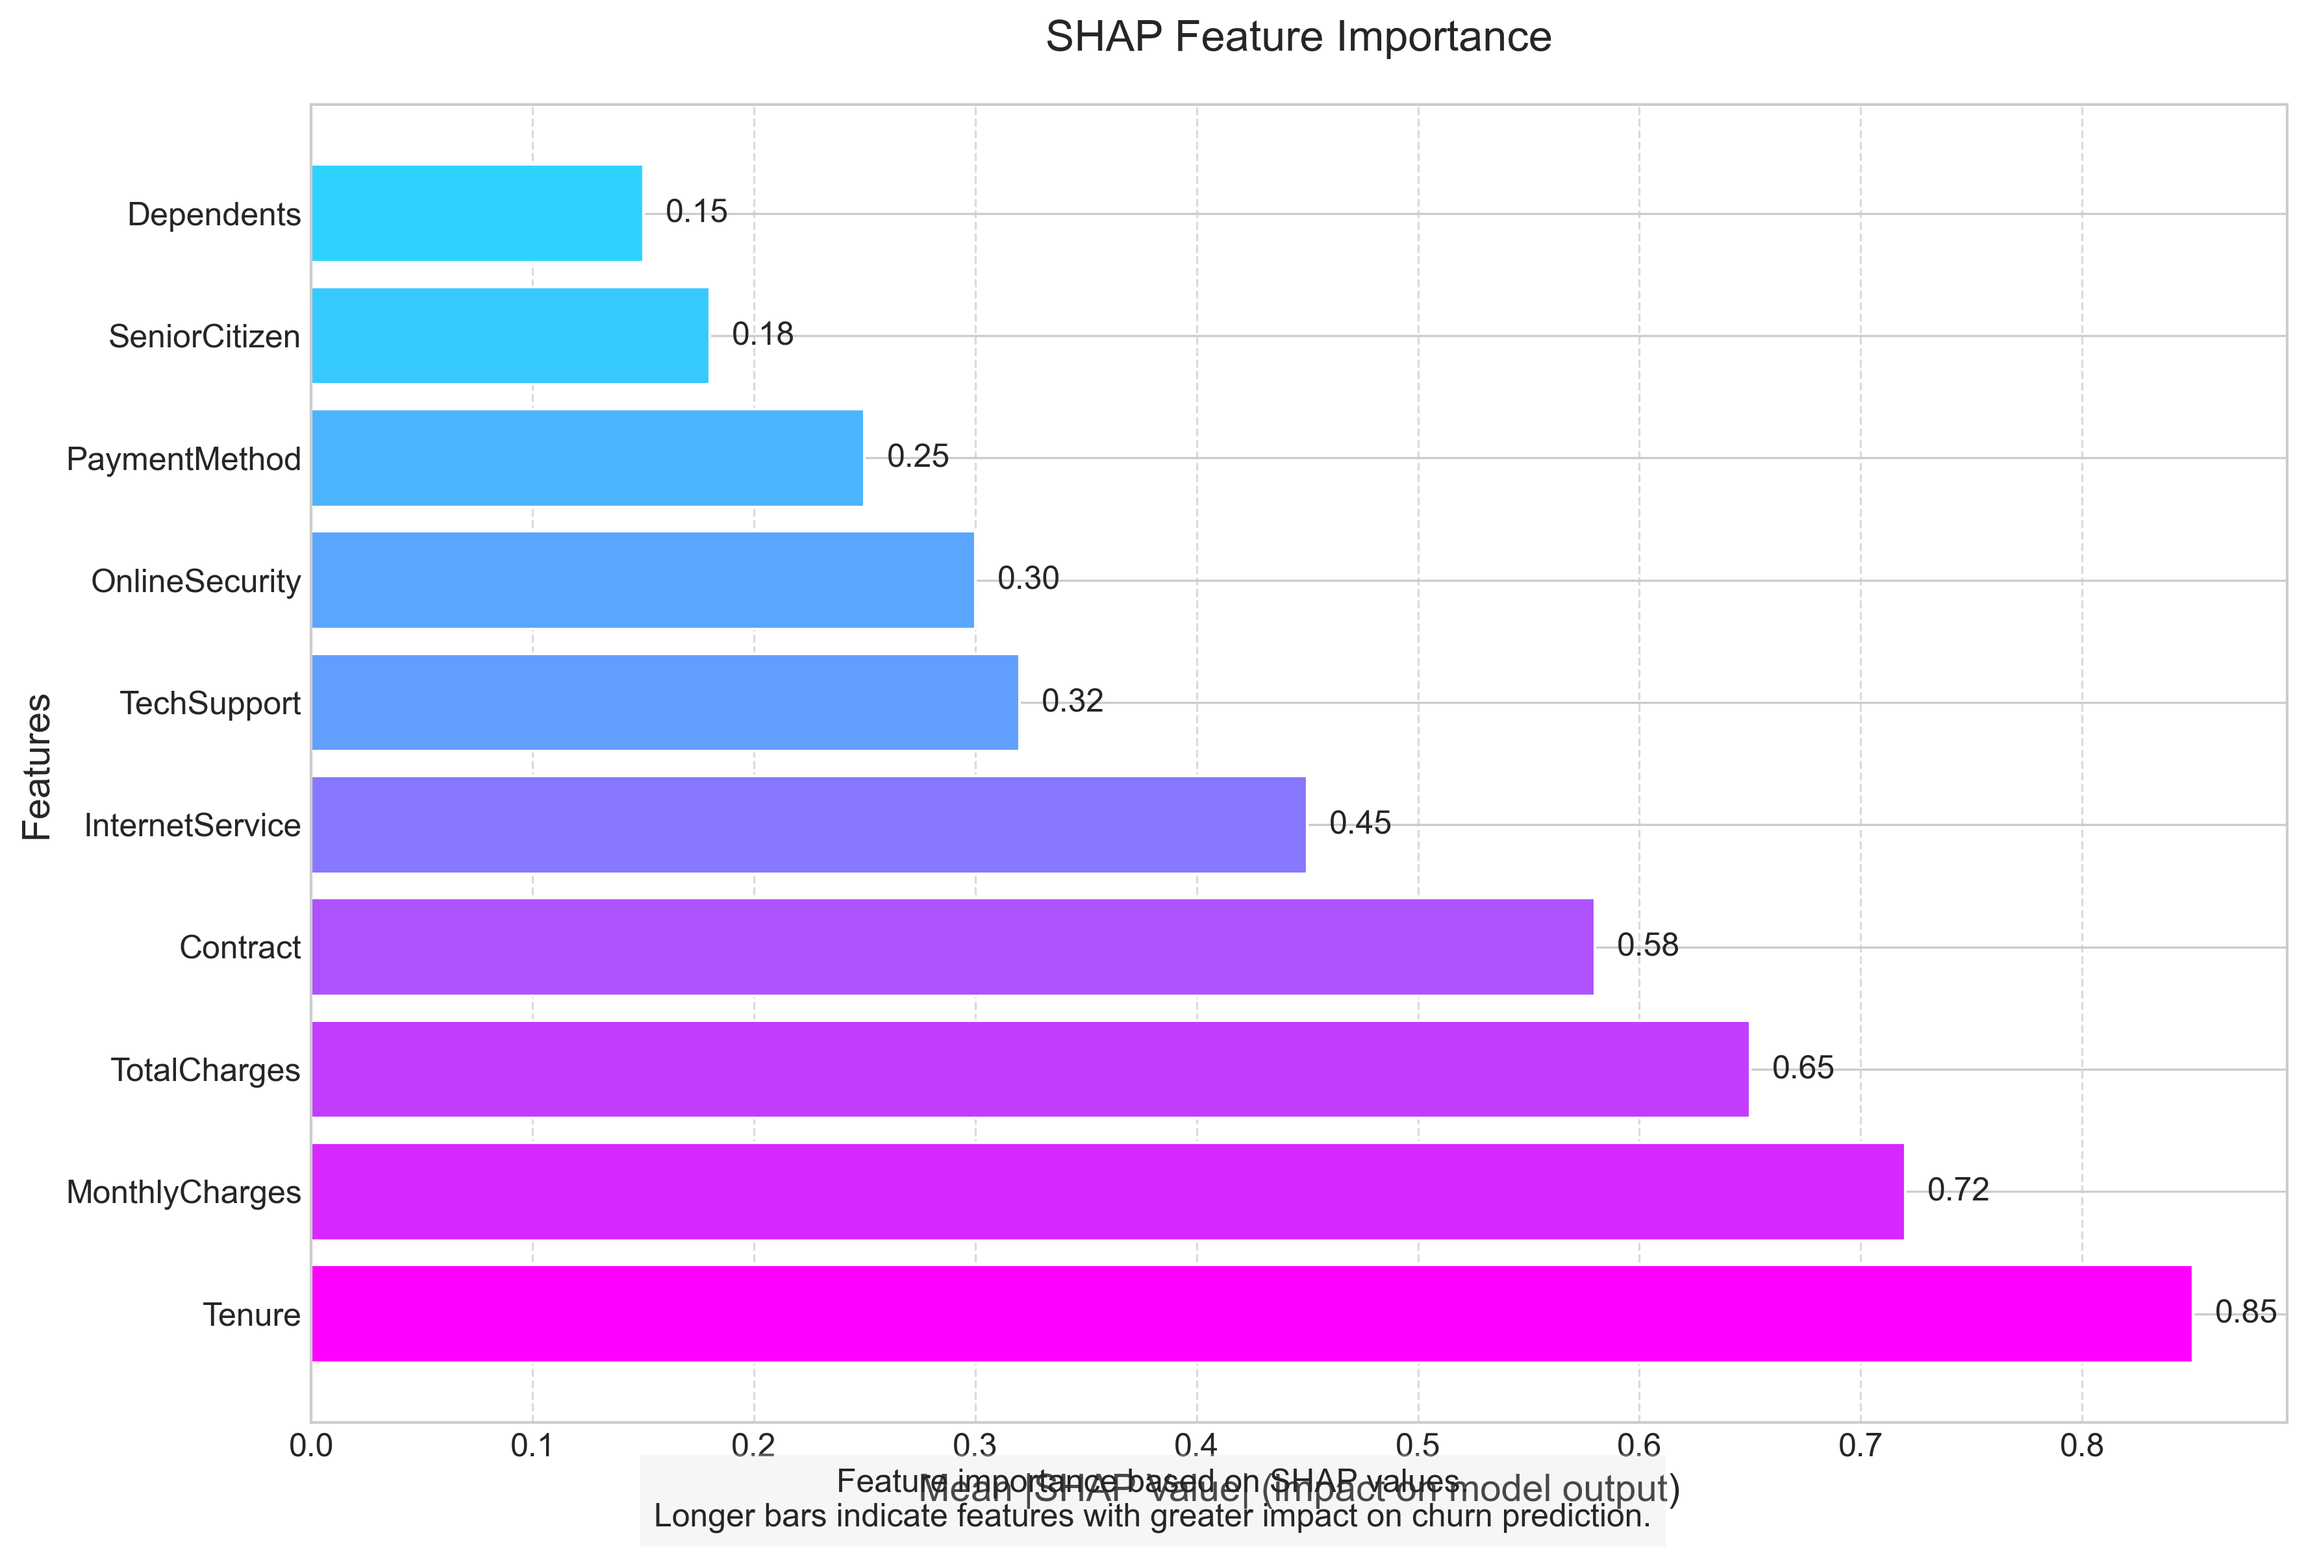
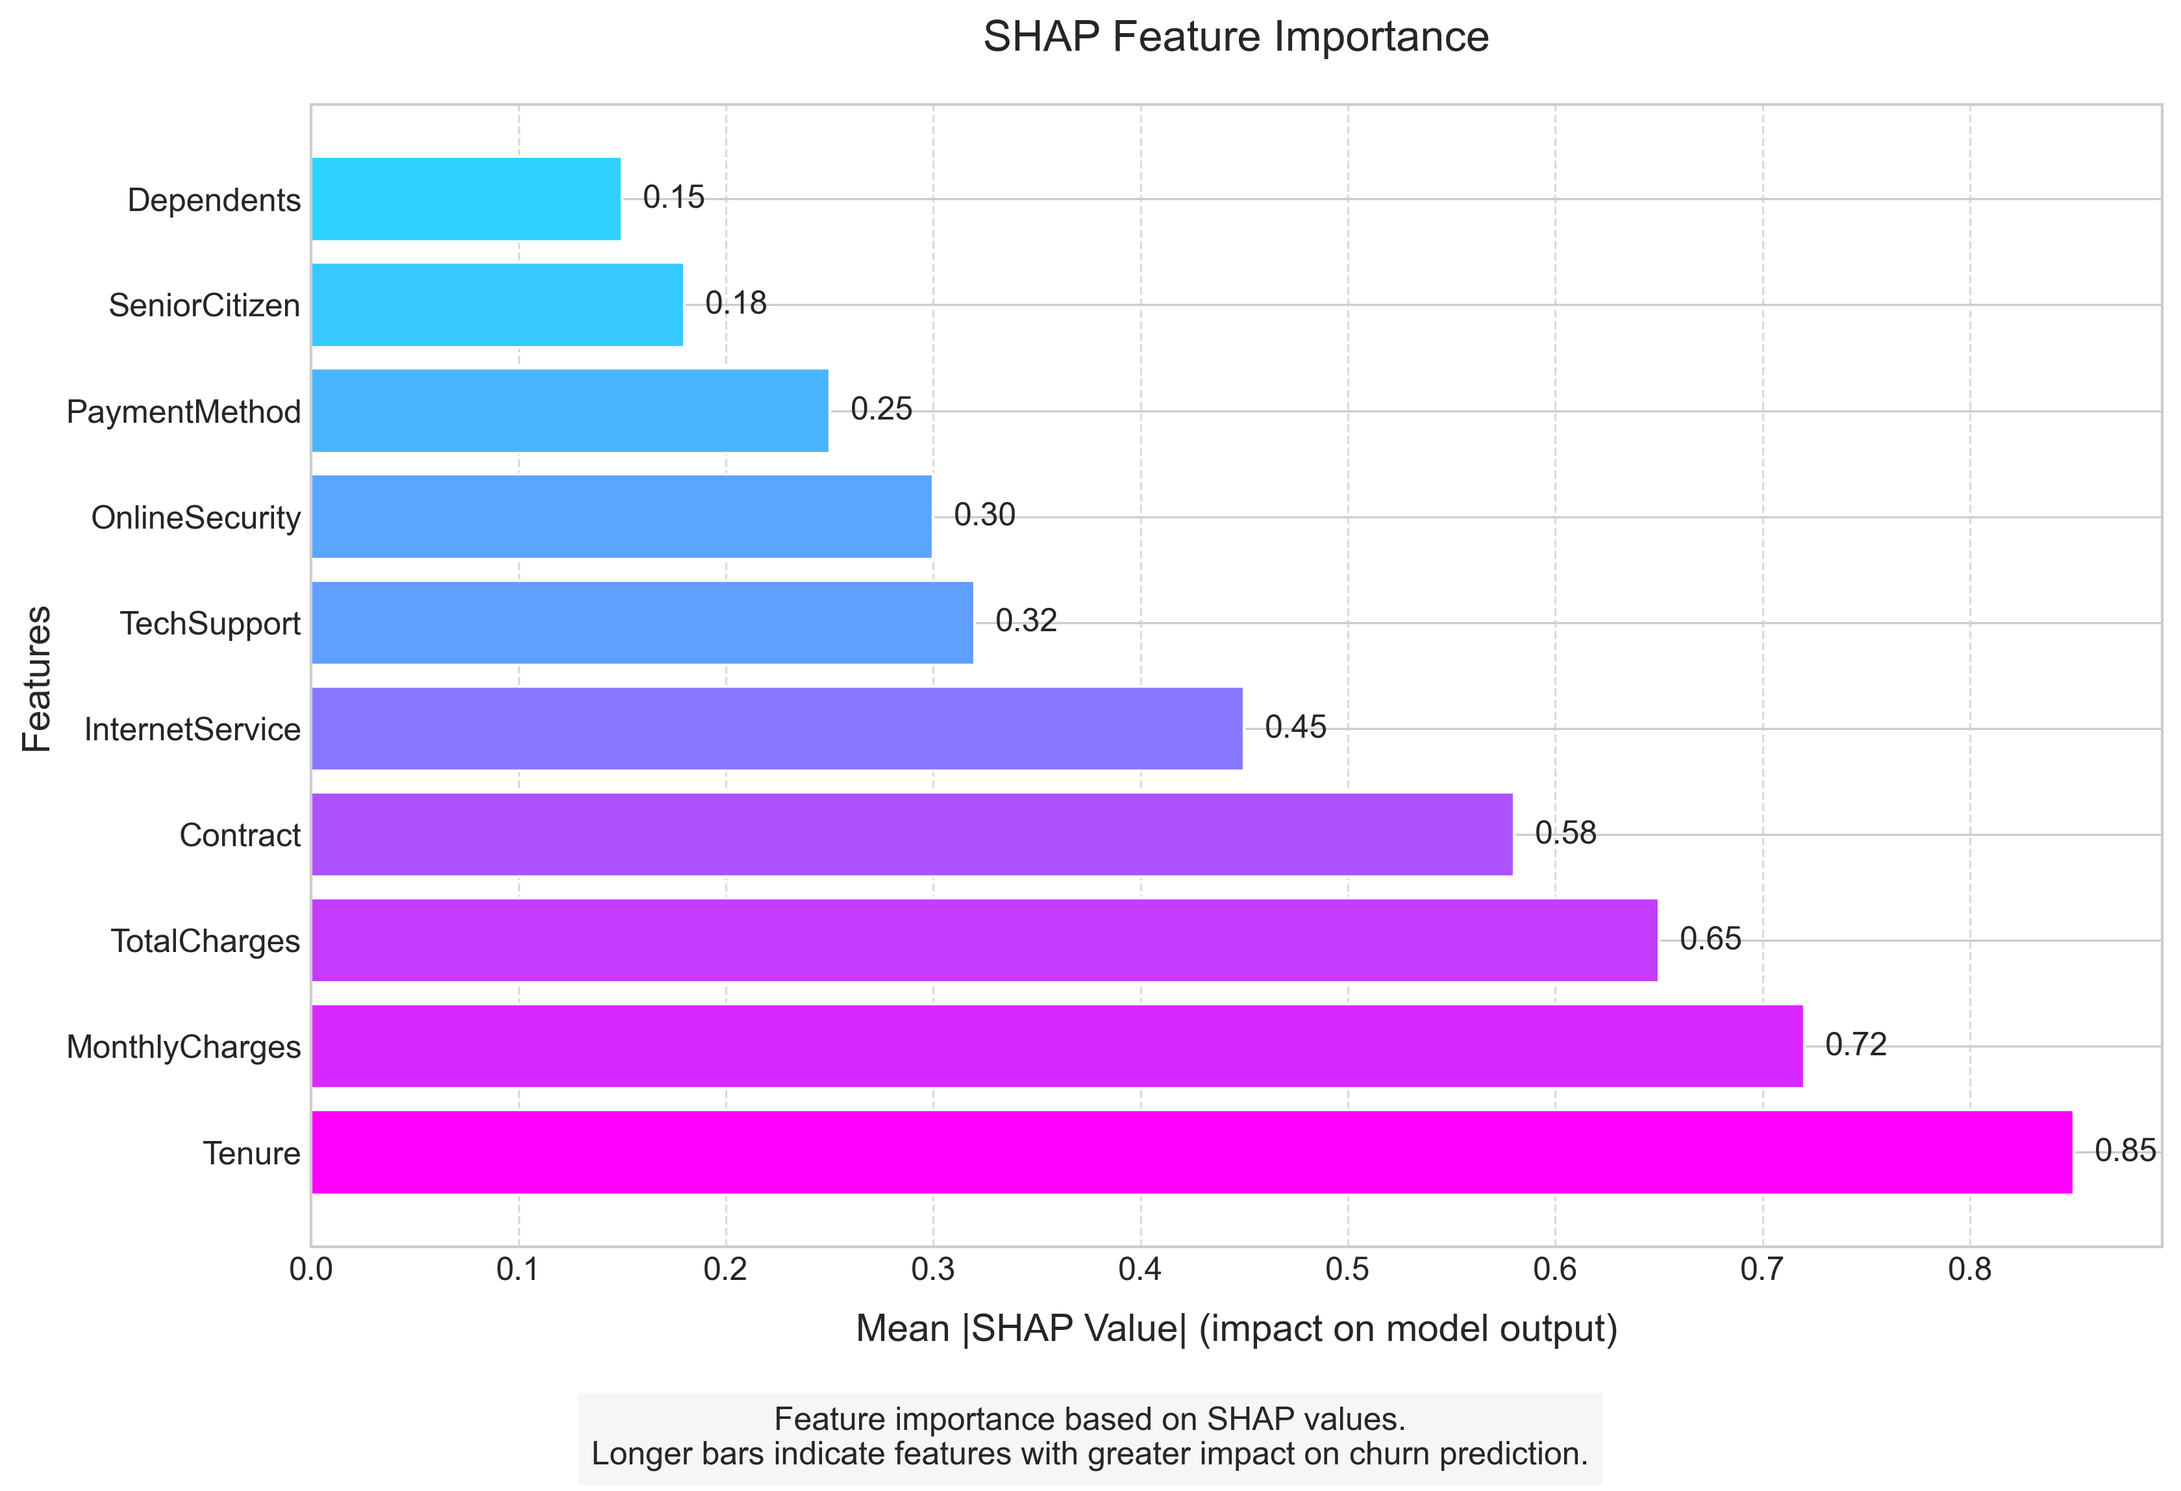
fixing the overlapping of the plot on churn

diff --git a/generate_churn_plots.py b/generate_churn_plots.py
@@ -217,19 +217,19 @@ def plot_service_usage():
     service_cols = ['PhoneService', 'MultipleLines', 'InternetService', 'OnlineSecurity', 
                    'OnlineBackup', 'DeviceProtection', 'TechSupport', 'StreamingTV', 'StreamingMovies']
     
-    # Create figure with enough height for all service options
-    plt.figure(figsize=(14, 14))
+    # Create figure with enough height for all service options and more width for labels
+    plt.figure(figsize=(16, 14))  # Increased width from 14 to 16
     
     # Define service categories and colors
     service_categories = {
         'Basic': ['PhoneService', 'MultipleLines', 'InternetService'],
-        'Security': ['OnlineSecurity', 'OnlineBackup', 'DeviceProtection', 'TechSupport'],
+        'Protection & Support': ['OnlineSecurity', 'OnlineBackup', 'DeviceProtection', 'TechSupport'],
         'Entertainment': ['StreamingTV', 'StreamingMovies']
     }
     
     category_colors = {
         'Basic': '#3498db',  # Blue
-        'Security': '#2ecc71',  # Green
+        'Protection & Support': '#2ecc71',  # Green
         'Entertainment': '#e74c3c'  # Red
     }
     
@@ -238,18 +238,21 @@ def plot_service_usage():
     y_ticks = []
     y_labels = []
     category_separators = []
+    category_avg_churn = {}
     
     # Process each service column
     for category, cols in service_categories.items():
         category_start = y_pos
+        category_churn_rates = []
         
         for col in cols:
             # Get churn rate for each value in this column
             for val in df[col].unique():
-                if pd.notna(val):  # Skip NaN values
+                if pd.notna(val) and val == 'Yes':  # Focus on customers who have the service
                     # Calculate churn rate for this specific value
                     subset = df[df[col] == val]
                     churn_rate = subset[subset['Churn'] == 'Yes'].shape[0] / subset.shape[0] * 100
+                    category_churn_rates.append(churn_rate)
                     
                     # Plot the bar
                     bar = plt.barh(y_pos, churn_rate, color=category_colors[category], alpha=0.7)
@@ -263,17 +266,31 @@ def plot_service_usage():
                     y_labels.append(f"{val} ({col})")
                     
                     y_pos += 1
+        
+        # Calculate average churn rate for category
+        if category_churn_rates:
+            category_avg_churn[category] = sum(category_churn_rates) / len(category_churn_rates)
                     
         # Add category separator
         if y_pos > category_start:
             category_separators.append((category_start + y_pos) / 2)
             y_pos += 1.5  # Add space between categories
     
+    # Set the x-axis limit to provide more space for annotations
+    plt.xlim(0, max(df.groupby(service_cols)['Churn'].apply(lambda x: (x == 'Yes').mean() * 100).max() + 15, 50))
+    
     # Draw category separators and labels
     for i, pos in enumerate(category_separators):
         category = list(service_categories.keys())[i]
         plt.axhline(pos - 0.75, color='gray', linestyle='--', alpha=0.3, xmax=0.95)
-        plt.text(plt.xlim()[1] * 0.96, pos, category, 
+        
+        # Add category label with average churn rate
+        if category in category_avg_churn:
+            label_text = f"{category} (avg: {category_avg_churn[category]:.1f}%)"
+        else:
+            label_text = category
+            
+        plt.text(plt.xlim()[1] * 0.96, pos, label_text, 
                  ha='right', va='center', fontsize=14, fontweight='bold', 
                  bbox=dict(facecolor='white', alpha=0.8, boxstyle='round,pad=0.5'))
         
@@ -281,7 +298,7 @@ def plot_service_usage():
     plt.yticks(y_ticks, y_labels)
     
     # Add labels and title
-    plt.xlabel('Churn Rate (%)', fontsize=14)
+    plt.xlabel('Churn Rate (%)', fontsize=14, labelpad=10)  # Added more padding
     plt.title('Churn Rate by Service Options', fontsize=16, pad=20)
     
     # Add a grid for better readability
@@ -292,15 +309,29 @@ def plot_service_usage():
     tech_no = df[df['TechSupport'] == 'No']['Churn'].apply(lambda x: x == 'Yes').mean() * 100
     reduction = ((tech_no - tech_yes) / tech_no) * 100
     
-    # Add tech support annotation
-    plt.figtext(0.5, 0.01, f"Technical Support reduces churn by {reduction:.1f}%", 
+    # Calculate entertainment vs protection impact
+    if 'Entertainment' in category_avg_churn and 'Protection & Support' in category_avg_churn:
+        entertainment_avg = category_avg_churn['Entertainment']
+        protection_avg = category_avg_churn['Protection & Support']
+        impact_diff = protection_avg - entertainment_avg
+        
+        # Add comparison annotation with more space
+        plt.figtext(0.5, 0.07, 
+                  f"Entertainment services have {abs(impact_diff):.1f}% less impact on churn reduction\ncompared to protection & support services",
+                  ha="center", fontsize=12, bbox={"facecolor":"lightgray", "alpha":0.2, "pad":5})
+    
+    # Add tech support annotation with more space
+    plt.figtext(0.5, 0.02, f"Technical Support reduces churn by {reduction:.1f}%", 
                ha="center", fontsize=12, bbox={"facecolor":"orange", "alpha":0.2, "pad":5})
     
-    # Save plot
-    plt.tight_layout()
+    # Adjust layout with more bottom space
+    plt.subplots_adjust(bottom=0.2, right=0.9)  # Increased bottom margin from 0.15 to 0.2
+    
+    # Save plot with tight_layout but with specified pad value
+    plt.tight_layout(pad=2.0)  # Increased padding from default
     plt.savefig(os.path.join(output_dir, 'service_usage.png'), dpi=300, bbox_inches='tight')
     plt.close()
-    print("Service usage plot saved")
+    print("Service usage plot saved with entertainment impact comparison")
 
 # 8. Demographics Plot
 def plot_demographics():
@@ -325,10 +356,10 @@ def plot_demographics():
         # Add title and labels
         if col == 'SeniorCitizenStr':
             axs[i].set_title('Senior Citizen Status', fontsize=14)
-            axs[i].set_xlabel('Is Senior Citizen', fontsize=12)
+            axs[i].set_xlabel('Is Senior Citizen', fontsize=12, labelpad=10)  # Added more padding
         else:
             axs[i].set_title(col.capitalize(), fontsize=14)
-            axs[i].set_xlabel(col, fontsize=12)
+            axs[i].set_xlabel(col, fontsize=12, labelpad=10)  # Added more padding
         
         axs[i].set_ylabel('Percentage (%)', fontsize=12)
         axs[i].legend(['No Churn', 'Churn'], fontsize=10)
@@ -354,8 +385,9 @@ def plot_demographics():
     # Super title
     plt.suptitle('Churn Rate by Demographic Factors', fontsize=16, y=0.95)
     
-    # Save plot
-    plt.tight_layout()
+    # Save plot with better spacing
+    plt.tight_layout(pad=3.0)  # Increased padding from default
+    plt.subplots_adjust(bottom=0.15)  # Added explicit bottom adjustment
     plt.savefig(os.path.join(output_dir, 'demographics.png'), dpi=300, bbox_inches='tight')
     plt.close()
     print("Demographics plot saved")
@@ -393,7 +425,7 @@ def plot_model_performance():
     # Plot Confusion Matrix
     sns.heatmap(cm_normalized, annot=cm, fmt='d', cmap='Blues', cbar=False, ax=ax1,
                 annot_kws={"size": 16}, square=True)
-    ax1.set_xlabel('Predicted label', fontsize=14)
+    ax1.set_xlabel('Predicted label', fontsize=14, labelpad=10)  # Added more padding
     ax1.set_ylabel('True label', fontsize=14)
     ax1.set_title('Confusion Matrix', fontsize=16)
     ax1.set_xticklabels(['Not Churned', 'Churned'], fontsize=12)
@@ -411,7 +443,7 @@ def plot_model_performance():
     ax2.plot([0, 1], [0, 1], color='grey', lw=1, linestyle='--')
     ax2.set_xlim([0.0, 1.0])
     ax2.set_ylim([0.0, 1.05])
-    ax2.set_xlabel('False Positive Rate', fontsize=14)
+    ax2.set_xlabel('False Positive Rate', fontsize=14, labelpad=10)  # Added more padding
     ax2.set_ylabel('True Positive Rate', fontsize=14)
     ax2.set_title('Receiver Operating Characteristic (ROC)', fontsize=16)
     ax2.legend(loc="lower right", fontsize=12)
@@ -420,8 +452,9 @@ def plot_model_performance():
     # Overall title
     plt.suptitle('Gradient Boosting Model Performance', fontsize=18, y=1.05)
     
-    # Save plot
-    plt.tight_layout()
+    # Save plot with better spacing
+    plt.tight_layout(pad=3.0)  # Increased padding from default
+    plt.subplots_adjust(bottom=0.15)  # Added explicit bottom adjustment
     plt.savefig(os.path.join(output_dir, 'model_performance.png'), dpi=300, bbox_inches='tight')
     plt.close()
     print("Model performance plot saved")
@@ -450,7 +483,7 @@ def plot_shap_summary():
                 ha='left', va='center', fontsize=12)
     
     # Add labels and title
-    plt.xlabel('Mean |SHAP Value| (impact on model output)', fontsize=14)
+    plt.xlabel('Mean |SHAP Value| (impact on model output)', fontsize=14, labelpad=10)  # Added more padding
     plt.ylabel('Features', fontsize=14)
     plt.title('SHAP Feature Importance', fontsize=16, pad=20)
     
@@ -462,8 +495,9 @@ def plot_shap_summary():
     # Add a grid for better readability
     plt.grid(axis='x', linestyle='--', alpha=0.7)
     
-    # Save plot
-    plt.tight_layout()
+    # Save plot with better spacing
+    plt.tight_layout(pad=3.0)  # Increased padding from default
+    plt.subplots_adjust(bottom=0.15)  # Added explicit bottom adjustment
     plt.savefig(os.path.join(output_dir, 'shap_summary.png'), dpi=300, bbox_inches='tight')
     plt.close()
     print("SHAP summary plot saved")

diff --git a/content/docs/project/churn-prediction.md b/content/docs/project/churn-prediction.md
@@ -116,7 +116,7 @@ Key findings about service usage:
 ![Demographics](/images/project/churn/demographics.png)
 
 Notable demographic insights:
-- Senior citizens churn at a substantially higher rate (+18.1%) than non-seniors
+- Senior citizens churn at a substantially higher rate (+13%) than non-seniors
 - Single customers without dependents show significantly higher churn propensity
 - Household composition impacts retention more than gender
 - This suggests tailoring retention efforts around household needs rather than individual characteristics
